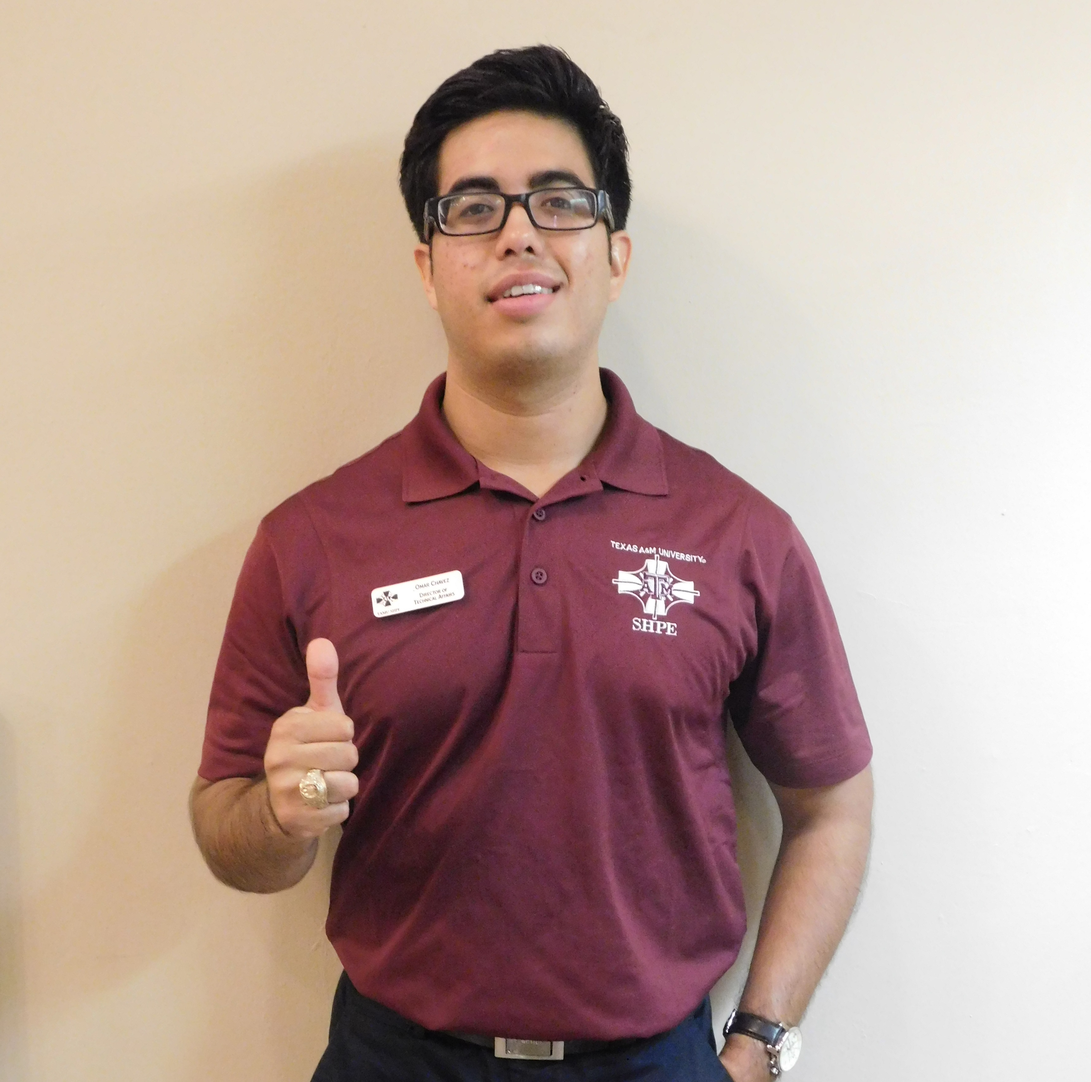
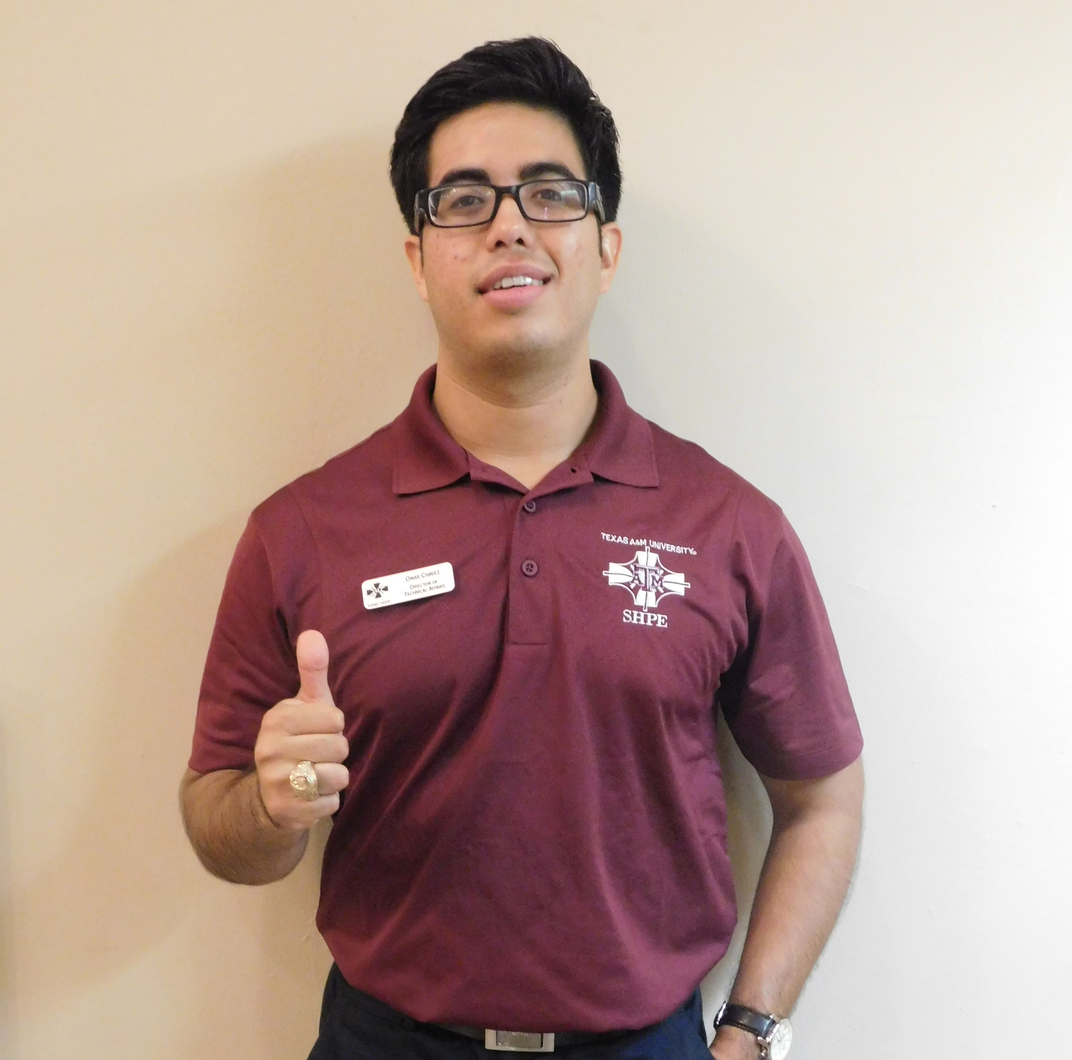
resized officers pics so that they are smaller and load faster
kept the original files in the folder and added the smaller capacity
version to to the folder. made the changes on the code to reflect the
pics with the smaller capacity.

diff --git a/officers.html b/officers.html
@@ -46,7 +46,7 @@
     <div class="row">
         <div class="media">
             <a class="pull-left col-lg-5" href="#">
-                <img class="img-responsive img-thumbnail"  src="images/GilbertoArizpe.JPG" alt="...">
+                <img class="img-responsive img-thumbnail"  src="images/GilbertoArizpe_1.JPG" alt="...">
             </a>
             <div class="media-body col-lg-6">
                 <h4 class="media-heading">Gilberto Arizpe</h4>
@@ -66,7 +66,7 @@
     <div class="row">
         <div class="media">
             <a class="pull-left col-lg-5" href="#">
-                <img class="img-responsive img-thumbnail" src="images/AndreaUrueta.JPG" alt="...">
+                <img class="img-responsive img-thumbnail" src="images/AndreaUrueta_1.JPG" alt="...">
             </a>
             <div class="media-body col-lg-6">
                 <h4 class="media-heading">Andrea Urueta</h4>
@@ -86,7 +86,7 @@
     <div class="row">
         <div class="media">
             <a class="pull-left col-lg-5" href="#">
-                <img class="img-responsive img-thumbnail" src="images/JesusTonche.JPG" alt="...">
+                <img class="img-responsive img-thumbnail" src="images/JesusTonche_1.JPG" alt="...">
             </a>
             <div class="media-body col-lg-6">
                 <h4 class="media-heading">Jesus Tonche</h4>
@@ -109,7 +109,7 @@
     <div class="row">
         <div class="media">
             <a class="pull-left col-lg-5" href="#">
-                <img class="img-responsive img-thumbnail" src="images/YeraniaHernandez.JPG" alt="...">
+                <img class="img-responsive img-thumbnail" src="images/YeraniaHernandez_1.JPG" alt="...">
             </a>
             <div class="media-body col-lg-6">
                 <h4 class="media-heading">Yerania Hernandez</h4>
@@ -132,7 +132,7 @@
     <div class="row">
         <div class="media">
             <a class="pull-left col-lg-5" href="#">
-                <img class="img-responsive img-thumbnail" src="images/JatziryTeran.JPG" alt="...">
+                <img class="img-responsive img-thumbnail" src="images/JatziryTeran_1.JPG" alt="...">
             </a>
             <div class="media-body col-lg-6">
                 <h4 class="media-heading">Jatziry Teran</h4>
@@ -155,7 +155,7 @@
     <div class="row">
         <div class="media">
             <a class="pull-left col-lg-5" href="#">
-                <img class="img-responsive img-thumbnail" src="images/MattRamirez.JPG" alt="...">
+                <img class="img-responsive img-thumbnail" src="images/MattRamirez_1.JPG" alt="...">
             </a>
             <div class="media-body col-lg-6">
                 <h4 class="media-heading">Matthew Ramirez</h4>
@@ -178,7 +178,7 @@
     <div class="row">
         <div class="media">
             <a class="pull-left col-lg-5" href="#">
-                <img class="img-responsive img-thumbnail" src="images/RolandoGamboa.JPG" alt="...">
+                <img class="img-responsive img-thumbnail" src="images/RolandoGamboa_1.JPG" alt="...">
             </a>
             <div class="media-body col-lg-6">
                 <h4 class="media-heading">Rolando Gamboa Jr.</h4>
@@ -201,7 +201,7 @@
     <div class="row">
         <div class="media">
             <a class="pull-left col-lg-5" href="#">
-                <img class="img-responsive img-thumbnail" src="images/JuanReyes.JPG" alt="...">
+                <img class="img-responsive img-thumbnail" src="images/JuanReyes_1.JPG" alt="...">
             </a>
             <div class="media-body col-lg-6">
                 <h4 class="media-heading">Juan Reyes</h4>
@@ -226,7 +226,7 @@
     <div class="row">
         <div class="media">
             <a class="pull-left col-lg-5" href="#">
-                <img class="img-responsive img-thumbnail" src="images/OmarChavez.JPG" alt="...">
+                <img class="img-responsive img-thumbnail" src="images/OmarChavez_1.JPG" alt="...">
             </a>
             <div class="media-body col-lg-6">
                 <h4 class="media-heading"> Omar Chavez</h4>
